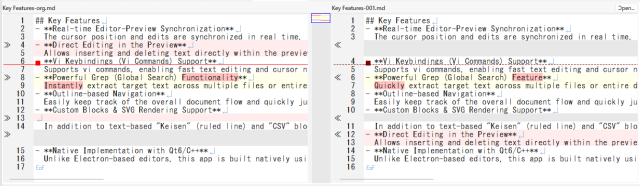
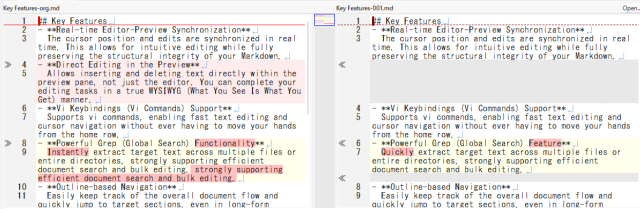
0913 ◎ C 08/19 08/19 03105│ToDo│docs/ja/WhatsNewV03.md, docs/WhatsNewV03.md：diff画像を右端で折り返したものに差し替え

diff --git a/viMarkdown/src/diff.cpp b/viMarkdown/src/diff.cpp
@@ -490,10 +490,29 @@ void calculateAndSetCharDiff(QTextBlock block1, QTextBlock block2, const QString
     }
 }
 int visualLineCount(const QTextBlock &block) {
+#if 1
 	int vc = 1;			//	表示行数
 	QTextLayout *layout = block.layout();
 	if( layout != 0 ) vc = layout->lineCount();
 	return vc;
+#else
+	QTextLayout *layout = block.layout();
+	//if( layout != 0 ) vc = layout->lineCount();
+	if( layout == nullptr ) {
+		qreal width = block.document()->textWidth();
+        if (width <= 0) {
+            return 1; // 幅が未定なら 1行扱い
+        }
+        layout->beginLayout();
+        while (true) {
+            QTextLine line = layout->createLine();
+            if (!line.isValid()) break;
+            line.setLineWidth(width);
+        }
+        layout->endLayout();
+	}
+	return qMax(1, layout->lineCount());
+#endif
 }
 void MainWindow::do_diff() {
 	if( m_processing!=0 ) return;
@@ -503,7 +522,7 @@ void MainWindow::do_diff() {
 	qDebug() << "MainWindow::do_diff()";
 	++m_processing;
 	onAction_DumpBlockUserStates();		//	dump block.userData() for Debug
-	int pos1 = docWidget->m_editor->textCursor().position();
+    int pos1 = docWidget->m_editor->textCursor().position();
     int pos2 = docWidget->m_diffview->textCursor().position();
 	//##disconnect(docWidget->m_editor, &MarkdownEditor::textChanged, this, &MainWindow::onMDTextChanged);
 	//##disconnect(docWidget->m_diffview, &MarkdownEditor::textChanged, this, &MainWindow::onMDTextChanged);
@@ -511,6 +530,12 @@ void MainWindow::do_diff() {
 	QTextDocument *doc2 = docWidget->m_diffview->document();
 	bool modified1 = doc1->isModified();
 	bool modified2 = doc2->isModified();
+#if 0
+	qreal width1 = docWidget->m_editor->viewport()->width();
+    qreal width2 = docWidget->m_diffview->width();
+    if (width1 > 0) doc1->setTextWidth(width1);
+    if (width2 > 0) doc2->setTextWidth(width2);
+#endif
     QTextCursor cur1_sv = docWidget->m_editor->textCursor();
     QTextCursor cur2_sv = docWidget->m_diffview->textCursor();
 	if( docWidget->m_editor->dummyInserted() )

diff --git a/md_example/diary/2026/08/20260818.md b/md_example/diary/2026/08/20260818.md
@@ -4,8 +4,11 @@
 ### viMarkdown
 - [ ] is_match()：引数部分を返す？
 - [ ] cw コマンドテスト
+- [ ] diff表示：右端で折り返し
 ### SPRList
 - [ ] Open時：Open & Close日付有り、Close＆Close日付無しの場合エラー表示
 ## Notes
-- https://www.reddit.com/r/vim/comments/ya26pi/built_a_vimfriendly_markdown_editor_thought_you/?tl=ja
+- Vimフレンドリーなマークダウンエディタ作ったんだ。みんなも気に入ってくれるかな？
+  - https://www.reddit.com/r/vim/comments/ya26pi/built_a_vimfriendly_markdown_editor_thought_you/?tl=ja
+
 
